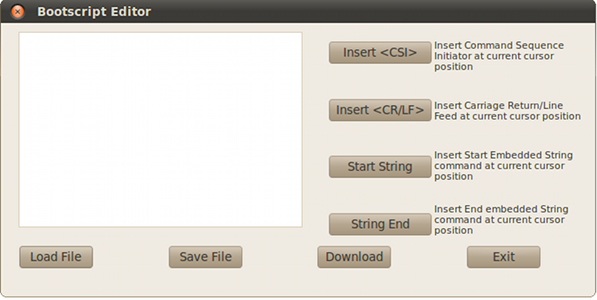
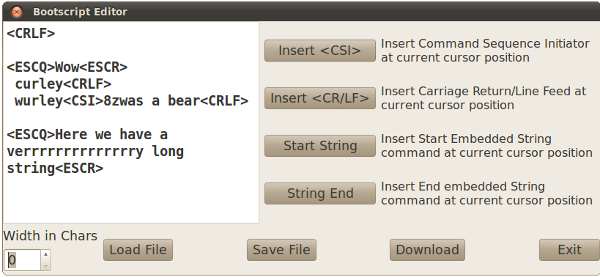
Help files and images

diff --git a/doc/BootScriptEditor.html b/doc/BootScriptEditor.html
@@ -7,8 +7,6 @@
 </head>
 
 <body>
-<h4 align="center">
-<p>&nbsp;</p>
 <p align="center"><img src="ImgBootEd1.png"></p>
 <p>BOB-4 can store up to 1024 
   characters of bootscript text in a reserved segment of flash memory. Bootscripts 
@@ -17,24 +15,39 @@
   way to create, edit, save, and download bootscripts to BOB-4 modules.<br>
   <br>
   Bootscript Editor saves bootscript files in plain ASCII format. This allows 
-  editing with many standard text editors, but methods for entering the &lt;ESC&gt; 
-  code will vary.<br>
+  editing with many standard text editors.
+</p>
+<p>
+  The bootscript editor can try to display what you will see on video screen.
   <br>
+  The only way of embedding ESC and NewLines for the conscriptor card is by using &lt;TAGS&gt;.
+  You may enter &lt;TAGS&gt; by hand or by using the convenience buttons.
+  <br>
+  Pretty Display formatting with linefeeds will be ignored by file save and by download functions.
+  <br>
+  Setting or leaving screen width at zero means no reformat is done. Setting screen width to a
+  number will display lines of that width in the edit window. The user would select a width
+  that matchs the conscriptor screen width using the selected font.
+</p>
+<p>
   To clear an existing BOB-4 bootscript, just execute a Download with the edit 
-  window empty.</font>
-  <br>
+  window empty.
+</p>
+<p>
   When downloading a bootscript to BOB-4, Bootscript Editor automatically brackets 
   it with String Start (&lt;ESC&gt;X) and String End (&lt;ESC&gt;\) codes, and 
   then issues the Capture Bootscript (&lt;CSI&gt;8v) and Save Configuration (&lt;CSI&gt;1v) 
   commands. These commands must therefore <strong>not</strong> be included in 
   the user's bootscript. Almost any other sequence of text and commands that is 
   legal for transmission to BOB-4 through a control port is also acceptable in 
-  a bootscript, but there are a couple of important exceptions:</font></p>
+  a bootscript, but there are a couple of important exceptions:
+</p>
 <ol>
-  <li>Don't put the reboot 
-    command in a bootscript. This is recursive, and a real show-stopper.</font></li>
-  <li>Don't put &lt;CSI&gt;1v 
-    (Save Configuration) in a bootscript. It will wear out the flash memory.</font></li>
+  <li>Don't put the reboot command in a bootscript. This is recursive, and a real show-stopper.
+  </li>
+  <li>Don't put &lt;CSI&gt;1v (Save Configuration) in a bootscript.
+      It will wear out the flash memory.
+  </li>
 </ol>
 <p>In general, configuration 
   commands don't belong in bootscripts unless they are meant to be temporary. 
@@ -104,6 +117,7 @@
   <br>
   <strong>Exit</strong><br>
   <br>
-  Quit the Bootscript Editor.</font></p>
+  Quit the Bootscript Editor.
+</p>
 </body>
 </html>

diff --git a/doc/EditMenu.html b/doc/EditMenu.html
@@ -59,6 +59,8 @@
       Adds a new blank character at the current position in the fontset.
       If you add a character before the end then characters from the insertion point to the
       end are incremented ie '1' stops looking like '1' instead looks like '2' etc.
+      <br>
+      In general you'd not want to add characters except at the end.
     </p>
     <h3>Outline: </h3>
     <p>
